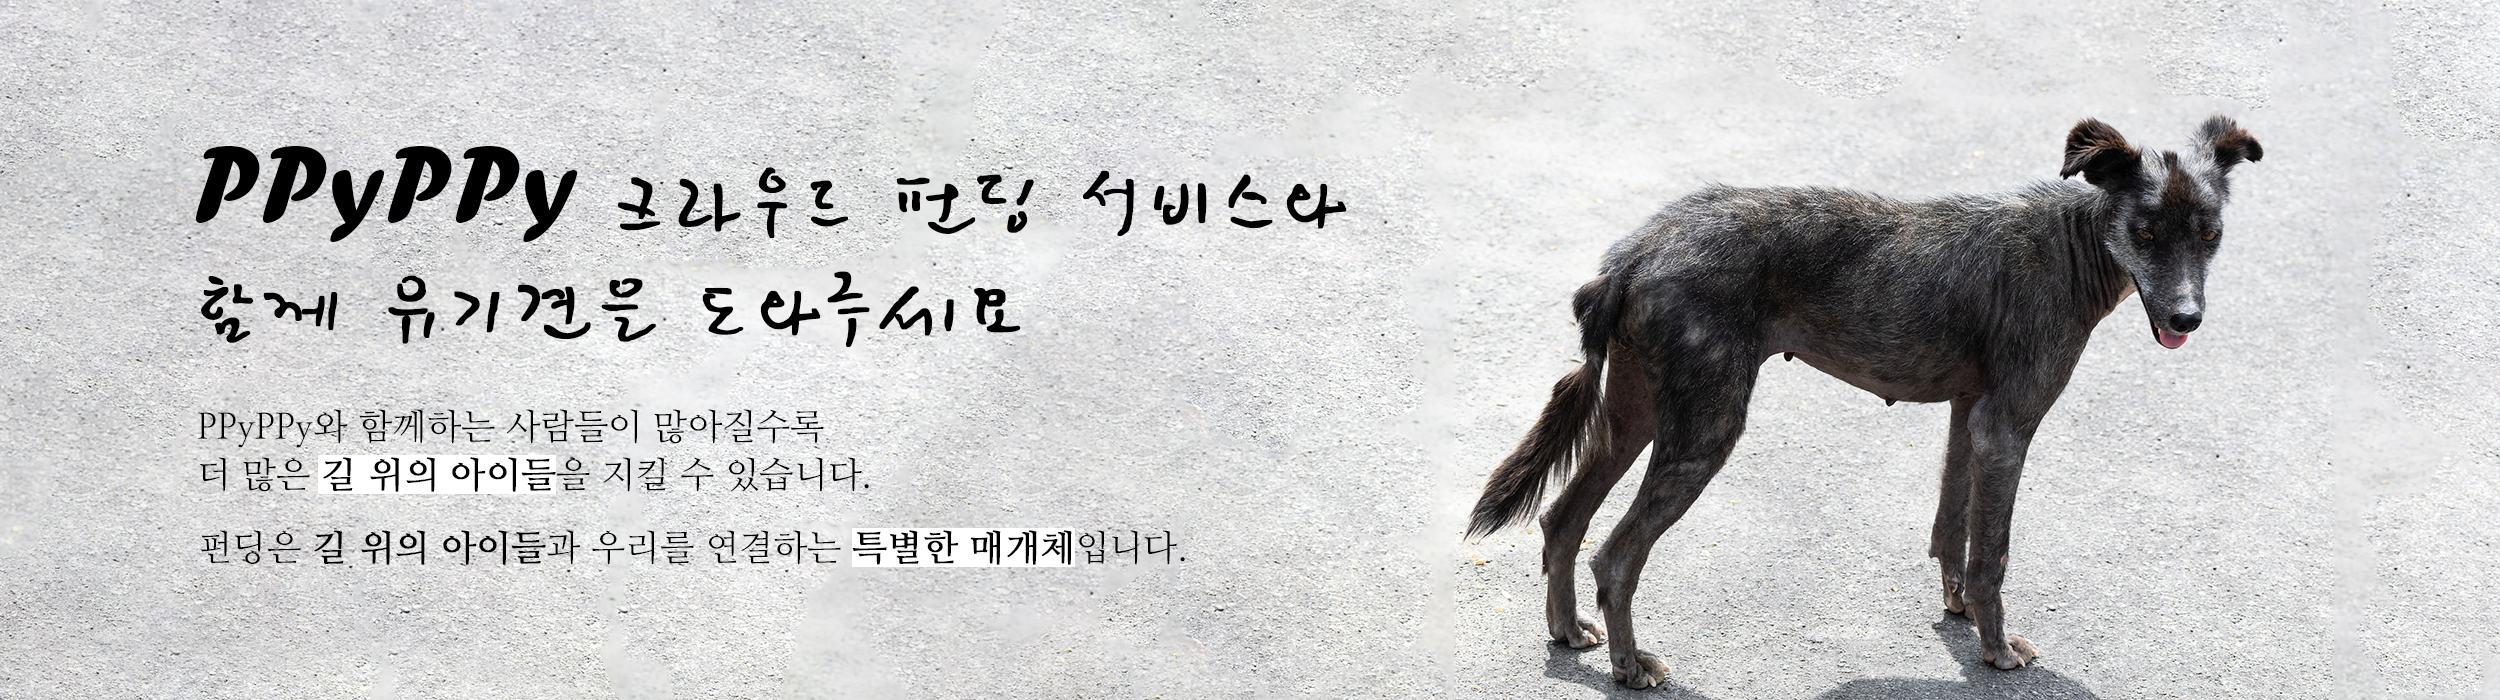
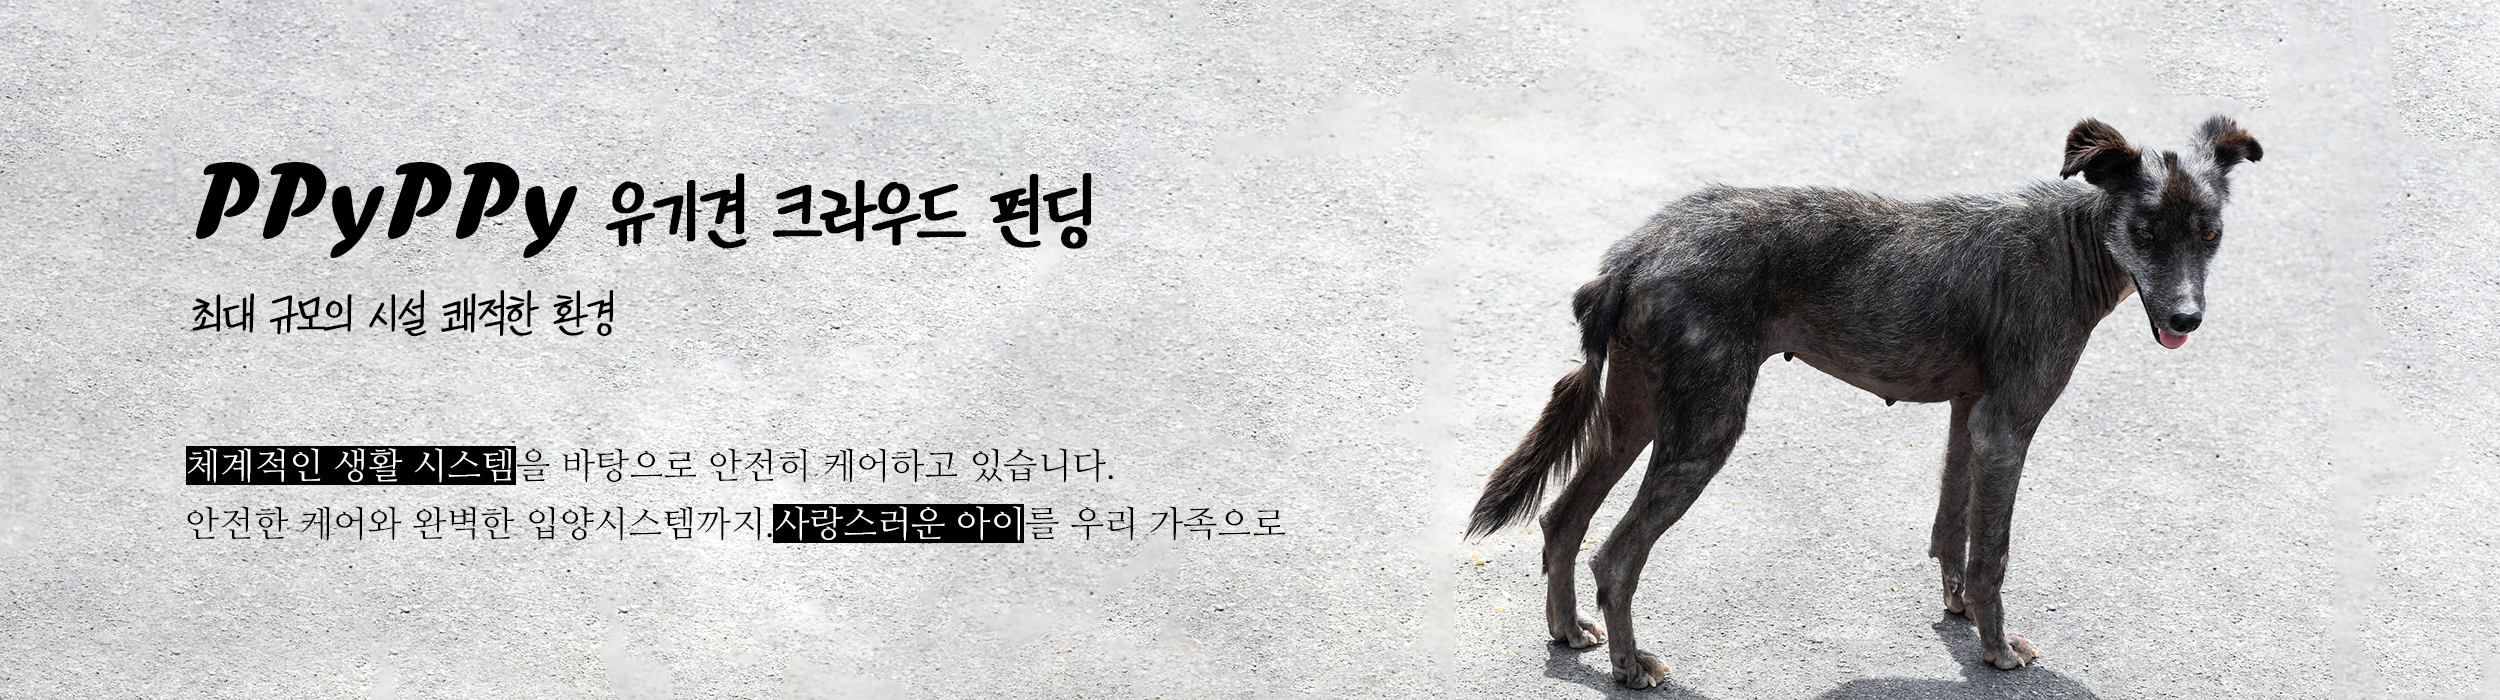
네비바 오렌지 테마로 수정

Changed region(s): [[0.0624, 0.06, 0.5304, 0.93]]

diff --git a/src/components/Main/MainContent.jsx b/src/components/Main/MainContent.jsx
@@ -23,7 +23,7 @@ function MainContent() {
                 style={{
                     width: "98%",
                     borderRadius: "10px",
-                    backgroundColor: "rgba(255, 255, 255, 0.9)",
+                    backgroundColor: "rgba(255, 255, 255, 0.98)",
                     marginTop: "-80px",
                     boxShadow:
                         "rgba(0, 0, 0, 0.1) 0rem 0.25rem 0.5rem -0.0625rem, rgba(0, 0, 0, 0.06) 0rem 0.125rem 0.25rem -0.0625rem",
@@ -31,7 +31,7 @@ function MainContent() {
                     zIndex: 500,
                 }}
             >
-                <Box sx={{padding: "2rem"}}>
+                <Box sx={{padding: "3.5rem"}}>
                     <Grid2 container spacing={20} justifyContent="center">
                         {/* 각 항목 */}
                         <Grid2 xs={12} md={4}>
@@ -39,12 +39,12 @@ function MainContent() {
                                 <Typography
                                     variant="h4"
                                     component="h1"
-                                    style={{color: "rgb(26, 115, 232)"}}
+                                    style={{color: "#f57e24"}}
                                     gutterBottom
                                 >
-                                    <span>80K+</span>
+                                    <span>100K+</span>
                                 </Typography>
-                                <Typography variant="body1" gutterBottom>
+                                <Typography variant="h6" gutterBottom>
                                     현재 국내 유기견 수
                                 </Typography>
                             </Box>
@@ -55,12 +55,12 @@ function MainContent() {
                                 <Typography
                                     variant="h4"
                                     component="h1"
-                                    style={{color: "rgb(26, 115, 232)"}}
+                                    style={{color: "#f57e24"}}
                                     gutterBottom
                                 >
                                     약<span>12만</span>마리
                                 </Typography>
-                                <Typography variant="body1" gutterBottom>
+                                <Typography variant="h6" gutterBottom>
                                     국내 유기견 안락사 수
                                 </Typography>
                             </Box>
@@ -71,7 +71,7 @@ function MainContent() {
                                 <Typography
                                     variant="h4"
                                     component="h1"
-                                    style={{color: "rgb(26, 115, 232)"}}
+                                    style={{color: "#f57e24"}}
                                     gutterBottom
                                 >
                                     <span>2000</span>만원
@@ -95,12 +95,12 @@ function MainContent() {
                     >
                         <Grid2 xs={12} lg={6}>
                             <Typography variant="h2" style={{textAlign: "center"}}>
-                                우리 페이지의 서비스를 소개합니다!
+                                PPyPPy의 서비스를 소개합니다!
                             </Typography>
-                            <Typography variant="body1" style={{textAlign: "center"}}>
-                                저희는 유기견 펀딩을 통해 안락사 위기의 강아지들을 더 보살필 수 있습니다.
+                            <Typography variant="body1" style={{fontSize: '20px', textAlign: "center", marginTop: "1rem"}}>
+                                저희는 유기견 펀딩을 통해 안락사 위기의 개들을 보살피고 있습니다.
                                 <br/>
-                                애견 쇼핑몰, 회원 등급에 따라 비싼 물건들을 더 저렴하게 구매하실 수 있도록 경매를 진행합니다.
+                                펀딩 금액에 따른 회원 등급 분류로 쇼핑몰의 제품들을 더 저렴하게 구매하실 수 있도록 경매를 진행합니다.
                             </Typography>
                         </Grid2>
                     </Grid2>

diff --git a/src/components/Main/NavBar.jsx b/src/components/Main/NavBar.jsx
@@ -8,7 +8,7 @@ import Divider from "@mui/material/Divider";
 import ShoppingCartIcon from "@mui/icons-material/ShoppingCart";
 import Logout from "@mui/icons-material/Logout";
 import Button from "@mui/material/Button";
-import logo from "../../static/newLogoHorizontal.png";
+import logo from "../../static/newLogoHorizontalOrange.png";
 import { useNavigate } from "react-router-dom";
 import { AuthContext } from "../../token/AuthContext";
 import styled from "styled-components";
@@ -100,7 +100,7 @@ export default function NavBar() {
         >
           <Button
             variant="text"
-            style={{ color: "gray" }}
+            style={{ color: "black", fontSize: "18px", right: '1rem', top: "0.2rem"}}
             onClick={() => {
               navigate("/dogList");
             }}
@@ -110,7 +110,7 @@ export default function NavBar() {
 
           <Button
             variant="text"
-            style={{ color: "gray" }}
+            style={{ color: "black", fontSize: "18px", right: '1rem', top: "0.2rem"}}
             onClick={() => {
               navigate("/shop");
             }}
@@ -120,7 +120,7 @@ export default function NavBar() {
 
           <Button
             variant="text"
-            style={{ color: "gray" }}
+            style={{ color: "black", fontSize: "18px", right: '1rem', top: "0.2rem"}}
             onClick={() => {
               navigate("/freeBoard");
             }}
@@ -146,7 +146,7 @@ export default function NavBar() {
               variant="contained"
               style={{
                 fontWeight: "bold",
-                backgroundColor: "skyblue",
+                backgroundColor: "#d64229",
               }}
               onClick={() => {
                 navigate("/signIn");

diff --git a/src/components/Main/MainCarousel.jsx b/src/components/Main/MainCarousel.jsx
@@ -1,7 +1,7 @@
 import Slider from "react-slick";
 import "slick-carousel/slick/slick.css";
 import "slick-carousel/slick/slick-theme.css";
-// import mainCarousel1 from "../../static/mainCarousel1.jpg"
+import mainCarousel1 from "../../static/mainCarousel1.jpg"
 import mainCarousel2 from "../../static/mainCarousel2.jpg"
 import mainCarousel3 from "../../static/mainCarousel3.jpg"
 import mainCarousel4 from "../../static/mainCarousel4.jpg"
@@ -21,10 +21,7 @@ function MainCarousel() {
     };
     return (
         <div className="slider-container" style={{display: "block"}}>
-            <Slider {...settings}>
-                {/* <div>
-                    <img src={mainCarousel1} alt="" style={{height: '700px', width: '100%'}}/>
-                </div>   */}
+            <Slider {...settings}>                
                 <div>
                     <img src={mainCarousel2} alt="" style={{height: '700px', width: '100%'}}/>
                 </div>
@@ -33,6 +30,9 @@ function MainCarousel() {
                 </div>
                 <div>
                     <img src={mainCarousel4} alt="" style={{height: '700px', width: '100%'}}/>
+                </div>
+                <div>
+                    <img src={mainCarousel1} alt="" style={{height: '700px', width: '100%'}}/>
                 </div>
             </Slider>
         </div>
